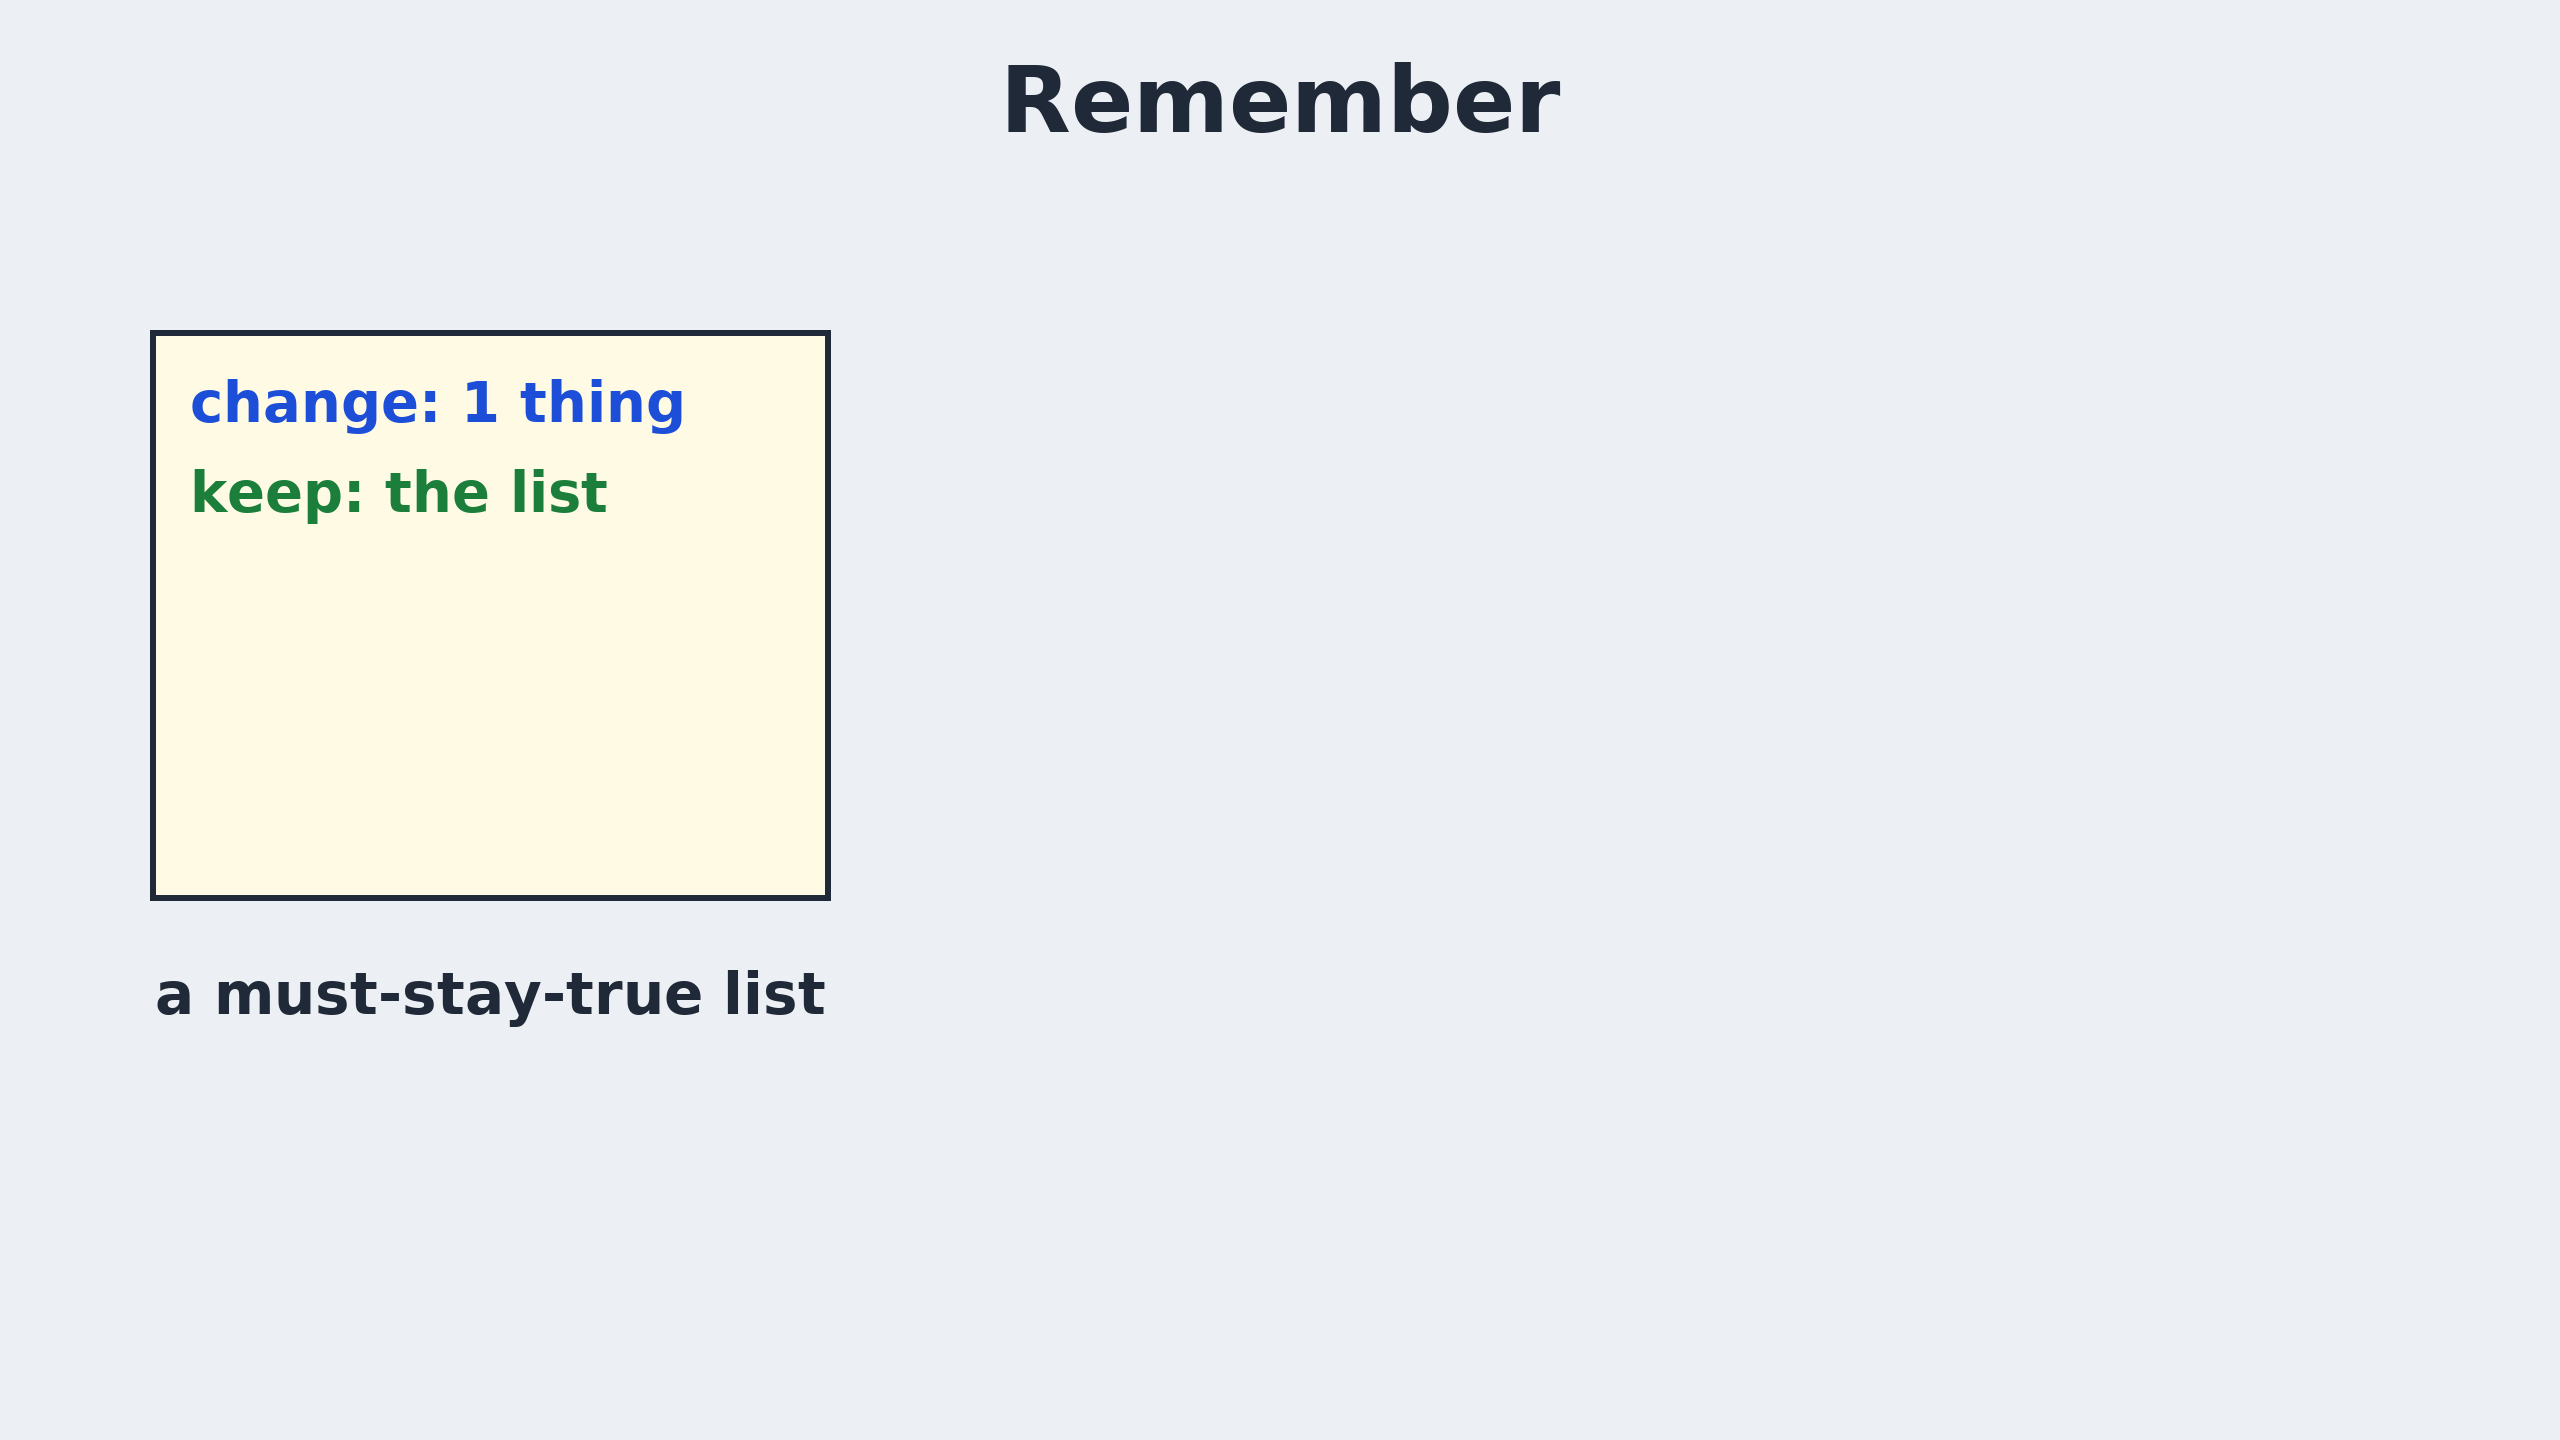
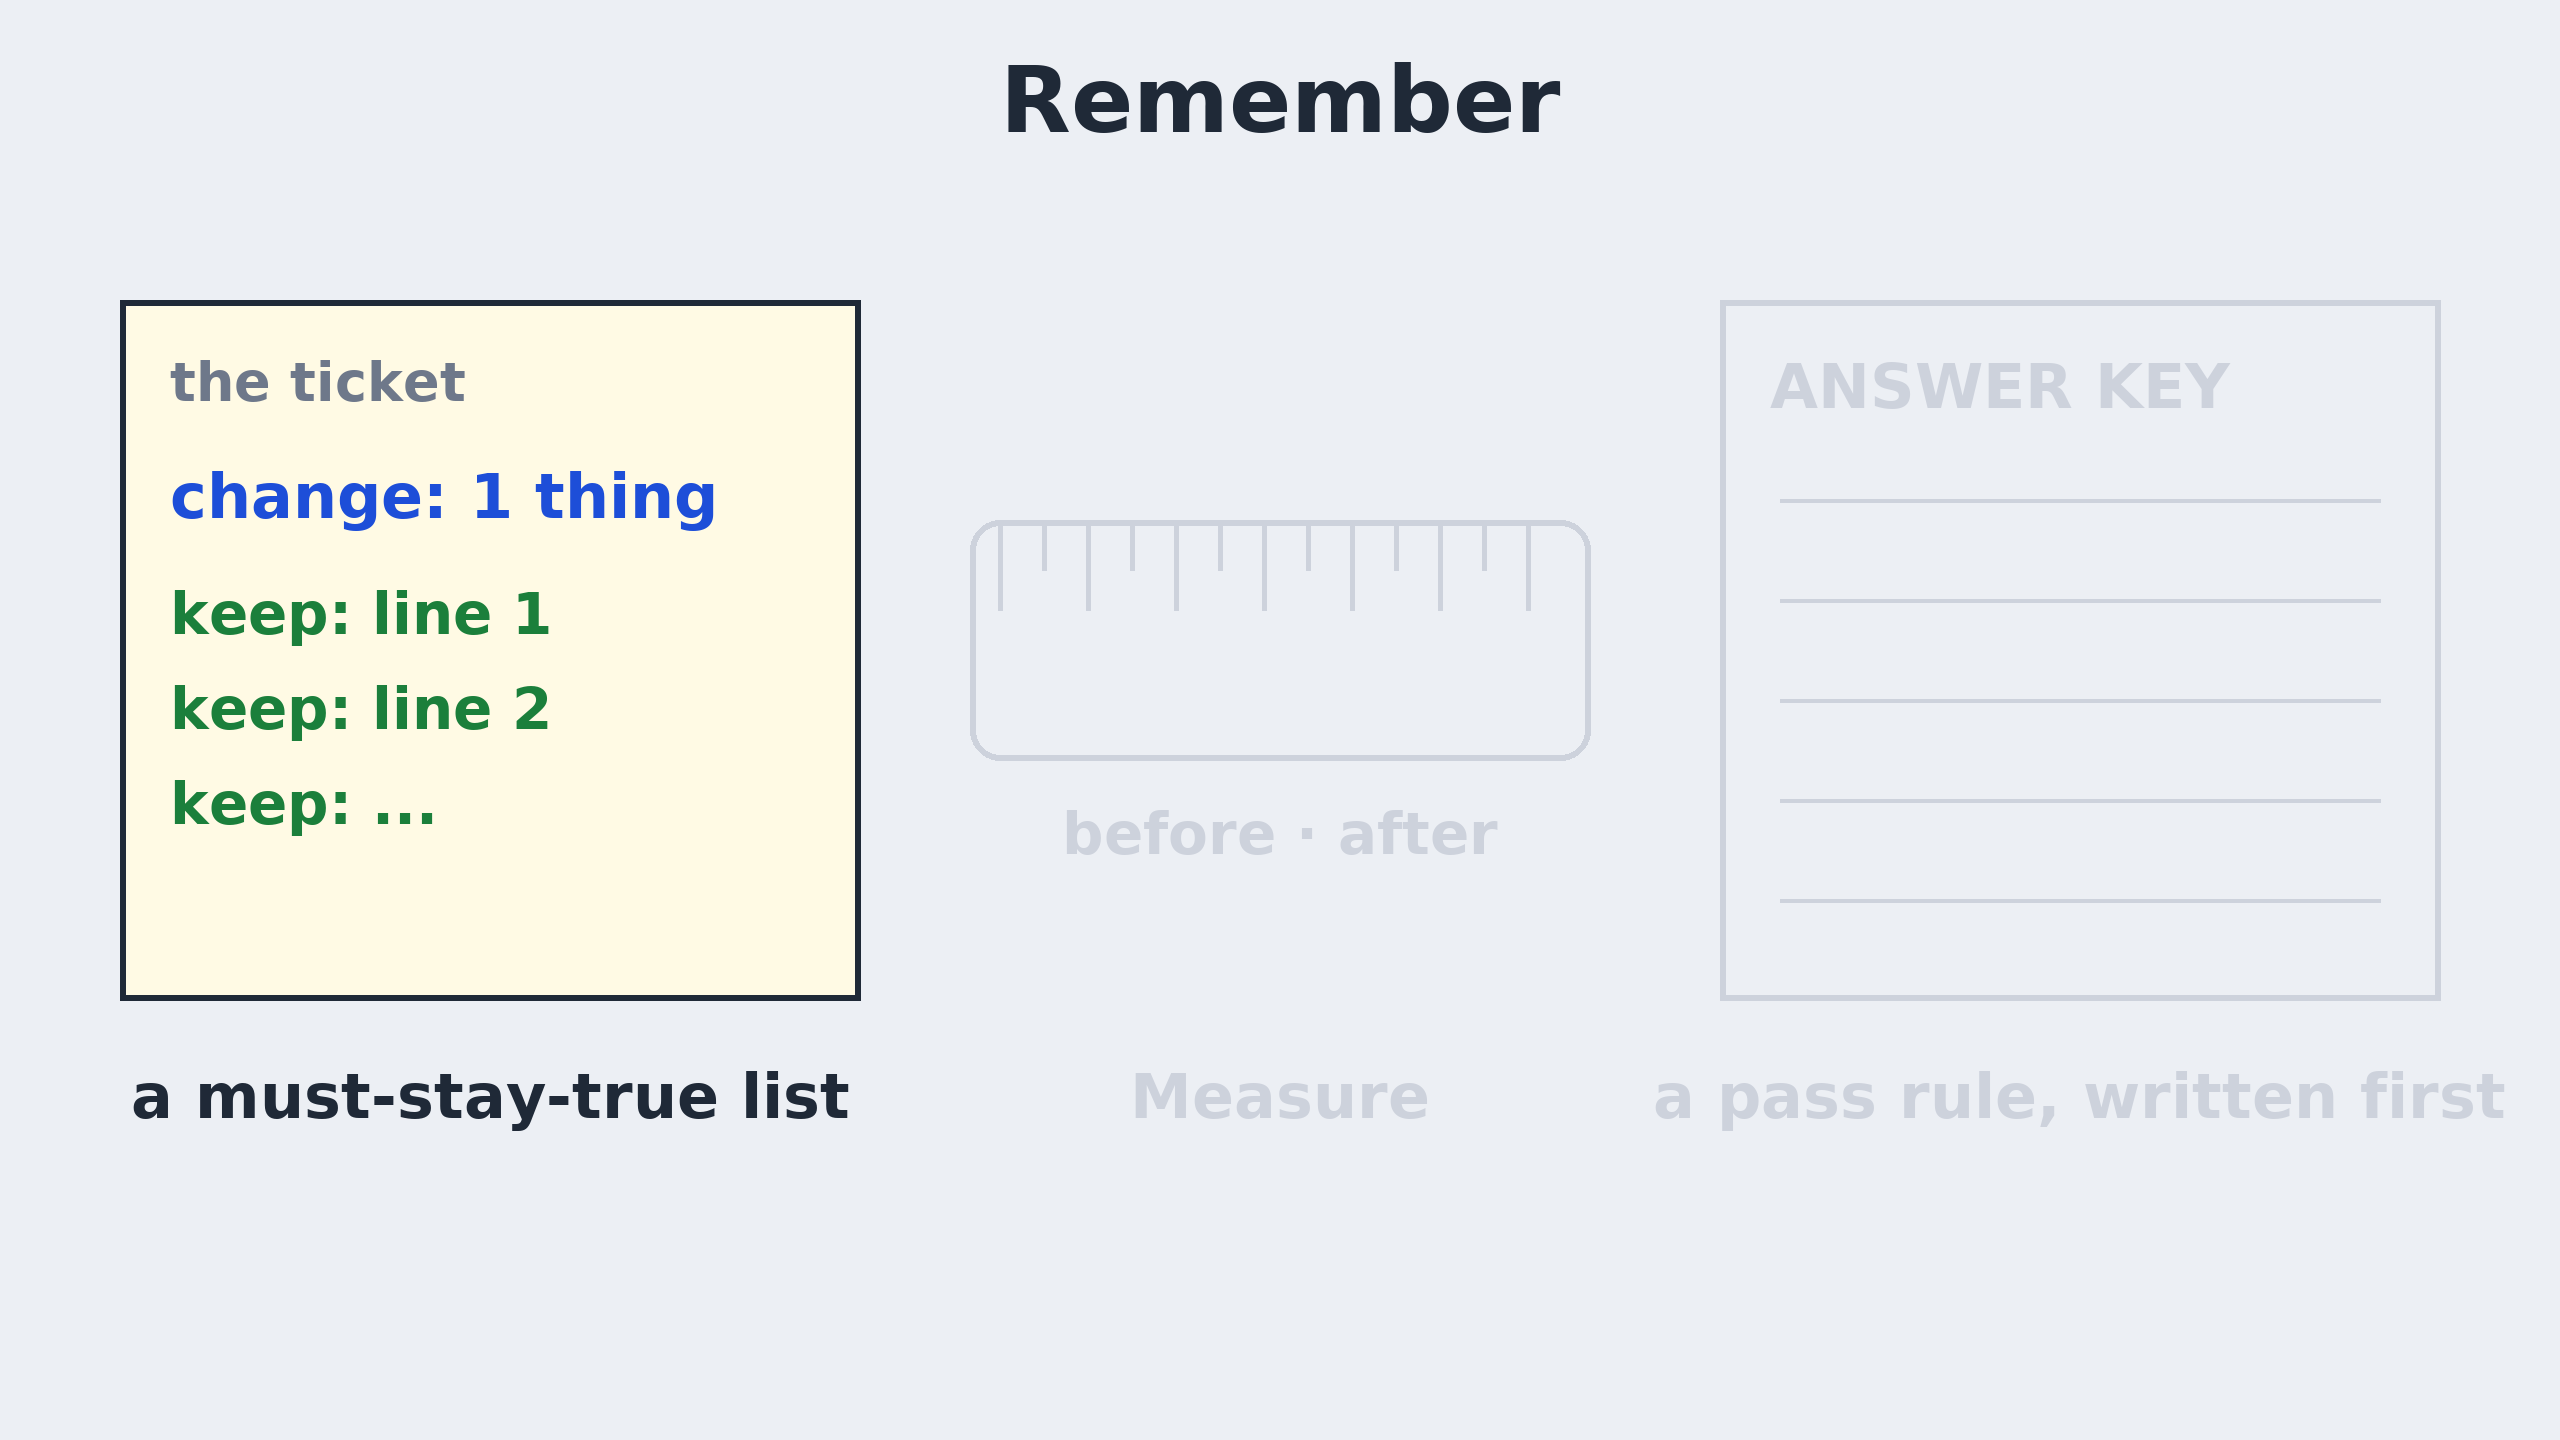
Lesson 6 cards: the recap with all three pictures (the ones still to come greyed), the comparison card in two reveals, 'passed (our script)'; real frames cropped to FreeCAD's half

diff --git a/video/draw_l6.py b/video/draw_l6.py
@@ -131,24 +131,137 @@ def card_sum():
 def card_recap(step):
     """F22, three reveals: the haircut ticket; the tape measure; the answer key."""
     im, d = canvas(); header(d, 'Remember')
-    d.rectangle((150, 330, 830, 900), fill=TICKET, outline=INK, width=6)
-    text(d, (190, 370), 'change: 1 thing', 56, BLUE)
-    text(d, (190, 460), 'keep: the list', 56, GREEN)
-    text(d, (490, 960), 'a must-stay-true list', 58, INK, anchor='ma')
-    if step >= 2:
-        d.rounded_rectangle((1000, 520, 1560, 720), radius=30, fill=(250, 210, 60), outline=INK, width=6)
-        for k in range(12):
-            x = 1030 + k * 44
-            d.line((x, 520, x, 560 + (30 if k % 2 == 0 else 0)), fill=INK, width=4)
-        text(d, (1280, 960), 'Measure before + after', 58, INK, anchor='ma')
-    if step >= 3:
-        d.rectangle((1760, 330, 2400, 900), fill=PAPER, outline=INK, width=6)
-        text(d, (1800, 370), 'ANSWER KEY', 56, INK)
-        text(d, (2080, 960), 'a pass rule, written first', 58, INK, anchor='ma')
+    LIGHT = (205, 210, 220)
+    on = lambda k: step >= k   # noqa: E731
+    d.rectangle((120, 300, 860, 1000), fill=TICKET if on(1) else BG, outline=INK if on(1) else LIGHT, width=6)
+    text(d, (170, 350), 'the ticket', 54, GREY if on(1) else LIGHT)
+    text(d, (170, 460), 'change: 1 thing', 62, BLUE if on(1) else LIGHT)
+    for k, line in enumerate(('keep: line 1', 'keep: line 2', 'keep: ...')):
+        text(d, (170, 580 + k * 95), line, 58, GREEN if on(1) else LIGHT)
+    text(d, (490, 1060), 'a must-stay-true list', 62, INK if on(1) else LIGHT, anchor='ma')
+    d.rounded_rectangle((970, 520, 1590, 760), radius=30, fill=(250, 210, 60) if on(2) else BG,
+                        outline=INK if on(2) else LIGHT, width=6)
+    for k in range(13):
+        x = 1000 + k * 44
+        d.line((x, 520, x, 570 + (40 if k % 2 == 0 else 0)), fill=INK if on(2) else LIGHT, width=5)
+    text(d, (1280, 800), 'before · after', 58, BLUE if on(2) else LIGHT, anchor='ma')
+    text(d, (1280, 1060), 'Measure', 62, INK if on(2) else LIGHT, anchor='ma')
+    d.rectangle((1720, 300, 2440, 1000), fill=PAPER if on(3) else BG, outline=INK if on(3) else LIGHT, width=6)
+    text(d, (1770, 350), 'ANSWER KEY', 62, INK if on(3) else LIGHT)
+    for k in range(5):
+        d.line((1780, 500 + k * 100, 2380, 500 + k * 100), fill=GREY if on(3) else LIGHT, width=4)
+    text(d, (2080, 1060), 'a pass rule, written first', 62, INK if on(3) else LIGHT, anchor='ma')
     save(im, f'card-recap-{step}.png')
+
+
+ROWS = ['opening 45', '1 one solid, no errors', '2 plate 60 x 30', '3 walls 5', '4 lip 10', '5 holes 4, centred, 15/45',
+        '6 the 2 mm lip edge', '7 the names drive it', 'volume 17,098.6']
+KEYS = ['C', 'M1', 'M2', 'M3', 'M4', 'M5', 'M6', 'M7', 'V']
+
+
+def frame(path, w, h, box=(1150, 0, 2880, 1800)):
+    """The FreeCAD half of a side-by-side take frame (default box), scaled to cover w x h and centre-cropped."""
+    from PIL import Image
+    im = Image.open(path).convert('RGB').crop(box)
+    k = max(w / im.width, h / im.height)
+    im = im.resize((int(im.width * k + 0.5), int(im.height * k + 0.5)))
+    x, y = (im.width - w) // 2, (im.height - h) // 2
+    return im.crop((x, y, x + w, y + h))
+
+
+def column(d, x, y, run, title, sub=None):
+    c = json.load(open(os.path.join(L6, 'compare.json'), encoding='utf-8'))['runs'][run]
+    d.rectangle((x - 30, y - 40, x + 1010, y + 1130), fill=PAPER, outline=INK, width=5)
+    text(d, (x, y - 10), title, 60, INK)
+    if sub:
+        text(d, (x, y + 62), sub, 46, GREY)
+    for k, (lab, key) in enumerate(zip(ROWS, KEYS)):
+        ok = c['lines'][key]
+        yy = y + 150 + k * 100
+        text(d, (x, yy), ('✓ ' if ok else '✗ ') + lab, 56, GREEN if ok else RED)
+    return c
+
+
+def card_run(run, n, src, sub):
+    """F14: one run's real final frame (left) with its whole column of the pass rule (right), from compare.json."""
+    im, d = canvas()
+    im.paste(frame(src, 1440, 1440), (0, 0))
+    chip(d, (40, 40), 'REAL FRAME · run %d' % n, 44, PAPER, BLUE)
+    c = column(d, 1520, 170, run, 'run %d: %s' % (n, 'passed' if c_pass(run) else 'not passed'), sub)
+    save(im, 'card-run%d.png' % n)
+
+
+def c_pass(run):
+    return json.load(open(os.path.join(L6, 'compare.json'), encoding='utf-8'))['runs'][run]['pass']
+
+
+def card_total():
+    c = json.load(open(os.path.join(L6, 'compare.json'), encoding='utf-8'))
+    im, d = canvas(); header(d, 'The pass rule, written first')
+    for k, (r, n) in enumerate((('B1', 1), ('B2', 2), ('B3', 3))):
+        x = 330 + k * 700
+        im.paste(frame(os.path.join(L6, 'runs', r, 's1-ourcheck.png') if r != 'B1' else
+                       os.path.join(L6, 'inspect-B1', 's1-ourcheck.png'), 600, 380, (1700, 300, 2880, 1100)), (x - 50, 300))
+        ok = c['runs'][r]['pass']
+        text(d, (x + 250, 720), 'run %d: %s' % (n, 'every line' if ok else 'broke a line'), 58, GREEN if ok else RED, anchor='ma')
+    text(d, (W / 2, 900), '%s kept every line' % c['summary']['with_list_passed'], 96, GREEN, anchor='ma')
+    chip(d, (W / 2, 1200), 'three runs: a good sign, not a promise', 56, PAPER, INK, anchor='m')
+    save(im, 'card-3of3.png')
+
+
+def card_without(step=2):
+    """F16: with the list (3 runs) vs without (1 run): passed, lines said with a number, from compare.json."""
+    c = json.load(open(os.path.join(L6, 'compare.json'), encoding='utf-8'))
+    im, d = canvas()
+    im.paste(frame(os.path.join(L6, 'runs', 'A1', 's1-ourcheck.png'), 1300, 1440), (0, 0))
+    chip(d, (40, 40), 'REAL FRAME · the run without the list', 44, PAPER, BLUE)
+    s = c['summary']['lines_said_with_a_number']
+    x0 = 1380
+    d.rectangle((x0, 140, 2520, 1300), fill=PAPER, outline=INK, width=5)
+    text(d, (x0 + 40, 180), 'with the list', 58, INK)
+    text(d, (x0 + 40, 250), '3 runs', 48, GREY)
+    text(d, (x0 + 40, 330), '%s passed (our script)' % c['summary']['with_list_passed'].replace(' of ', '/'), 60, GREEN)
+    text(d, (x0 + 40, 420), 'lines it said with a number:', 46, GREY)
+    text(d, (x0 + 40, 480), '%d of 7 each' % s['B1'], 60, INK)
+    d.line((x0 + 30, 600, 2490, 600), fill=GREY, width=3)
+    if step < 2:
+        save(im, 'card-without-1.png')
+        return
+    text(d, (x0 + 40, 640), 'without the list', 58, INK)
+    text(d, (x0 + 40, 710), '1 run', 48, GREY)
+    text(d, (x0 + 40, 790), 'passed (our script)' if c['runs']['A1']['pass'] else 'broke a line', 60, GREEN if c['runs']['A1']['pass'] else RED)
+    text(d, (x0 + 40, 880), 'lines it said with a number:', 46, GREY)
+    text(d, (x0 + 40, 940), '%d of 7' % s['A1'], 60, INK)
+    text(d, (x0 + 40, 1030), 'nothing on the names', 52, RED)
+    chip(d, (x0 + 40, 1200), 'one run: a story, not a rate', 46, PAPER, INK)
+    save(im, 'card-without.png')
+
+
+def thumbs():
+    """Thumbnails (1280 x 720) from the real by-hand frames: the sheet's hook_depth 45 beside Measure's 35.00 mm."""
+    from PIL import Image
+    src = Image.open(os.path.join(L6, 'hand', 's4-measure35.png')).convert('RGB')
+    a = src.crop((490, 420, 960, 500)).resize((560, 95))       # the sheet's row 1: hook_depth 45.00 mm
+    b = src.crop((2190, 760, 2870, 820)).resize((560, 50))     # Measurement: Result 35.00 mm
+    part = src.crop((1880, 330, 2880, 1330)).resize((520, 520))
+    for name, title in (('thumb-primary.png', 'TYPED 45, GOT 35'), ('thumb-altA.png', '3/3 KEPT EVERY LINE')):
+        im, d = canvas(1280, 720)
+        d.rectangle((0, 0, 1280, 140), fill=INK)
+        text(d, (640, 70), title, 72, PAPER, anchor='mm')
+        im.paste(part, (720, 175))
+        d.rectangle((714, 169, 1246, 701), outline=RED, width=8)
+        im.paste(a, (60, 230)); d.rectangle((54, 224, 626, 331), outline=INK, width=6)
+        text(d, (340, 360), 'typed', 48, GREY, anchor='ma')
+        im.paste(b, (60, 470)); d.rectangle((54, 464, 626, 526), outline=RED, width=8)
+        text(d, (340, 560), 'measured', 48, RED, anchor='ma')
+        save(im, name)
 
 
 if __name__ == '__main__':
     for i in (1, 2, 3):
         card_haircut(i); card_depth(i); card_key(i); card_recap(i)
     card_sum()
+    card_run('B1', 1, os.path.join(L6, 'inspect-B1', 's1-ourcheck.png'), 'one cell: hook_depth 55')
+    card_run('B2', 2, os.path.join(L6, 'runs', 'B2', 's1-ourcheck.png'), 'one cell: hook_depth 55')
+    card_run('B3', 3, os.path.join(L6, 'runs', 'B3', 's1-ourcheck.png'), 'a new name: opening 45')
+    card_total(); card_without(1); card_without(); thumbs()
